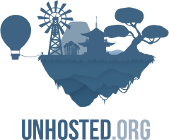
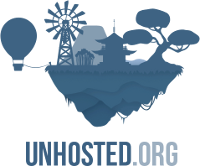
some late night changes on the header, next up is all of the content and getting the nav to actually work

diff --git a/index-new.html b/index-new.html
@@ -29,23 +29,23 @@
             <ul class="nav">
               <li class="active"><a id="nav-introduction" href="#"><i class="icon-home icon-white"></i> Introduction</a></li>
               <li><a id="nav-manifesto" href="#"><i class="icon-bookmark icon-white"></i> Manifesto</a></li>
-              <li><a id="nav-developer" href="developer.html"><i class="icon-cog icon-white"></i> Developer</a></li>
-              <li><a id="nav-community" href="community.html"><i class="icon-flag icon-white"></i> Community</a></li>
-              <li><a id="nav-thanks" href="thanks.html"><i class="icon-heart icon-white"></i> Thanks</a></li>
+              <li><a id="nav-developer" href="#"><i class="icon-cog icon-white"></i> Developer</a></li>
+              <li><a id="nav-community" href="#"><i class="icon-flag icon-white"></i> Community</a></li>
+              <li><a id="nav-thanks" href="#"><i class="icon-heart icon-white"></i> Thanks</a></li>
             </ul>
             <ul class="nav pull-right">
               <li class="dropdown">
                 <a href="#" class="dropdown-toggle" data-toggle="dropdown"><i class="icon-eye-open icon-white"></i> Follow<b class="caret"></b></a>
                 <ul class="dropdown-menu">
-                  <li><a target="_blank" href="http://twitter.com/unhosted"><img src="https://twitter.com/phoenix/favicon.ico" /> Twitter</a></li>
-                  <li><a target="_blank" href="http://identi.ca/unhosted"><img src="http://status.net/sites/default/themes/statustheme/favicon.ico" /> Identi.ca</a></li>
-                  <li><a target="_blank" href="http://joindiaspora.com/u/unhosted"><img src="https://joindiaspora.com/favicon.png" /> Diaspora</a></li>
+                  <li><a target="_blank" href="http://twitter.com/unhosted"><img src="img/icon-twitter.ico" /> Twitter</a></li>
+                  <li><a target="_blank" href="http://identi.ca/unhosted"><img src="img/icon-identica.ico" /> Identi.ca</a></li>
+                  <li><a target="_blank" href="http://joindiaspora.com/u/unhosted"><img src="img/icon-diaspora.png" /> Diaspora</a></li>
                 </ul>
               </li>
               <li class="dropdown">
                 <a href="#" class="dropdown-toggle" data-toggle="dropdown"><i class="icon-user icon-white"></i> Participate<b class="caret"></b></a>
                 <ul class="dropdown-menu">
-                  <li><a target="_blank" href="https://github.com/unhosted"><img src="https://github.com/favicon.ico" /> Code</a></li>
+                  <li><a target="_blank" href="https://github.com/unhosted"><img src="img/icon-github.ico" /> Code</a></li>
                   <li><a target="_blank" href="http://groups.google.com/group/unhosted"><i class="icon-envelope"></i> Mailing list</a></li>
                   <li><a target="_blank" href="http://webchat.freenode.net/?channels=unhosted"><i class="icon-comment"></i> Chat room</a></li>
                 </ul>

diff --git a/css/custom.css b/css/custom.css
@@ -1,10 +1,11 @@
 body { background:#fff url('../img/backhaze.png') center 120px repeat-x; }
 
-.brand { position:absolute; top:-8em; left:2em; }
+.brand { position:absolute; top:-7.2em; left:2em; }
 
 .navbar.navbar-fixed-top { position:relative; }
-.navbar .navbar-inner { height:16em; background:url('../img/headerback.png') repeat-x top center; }
+.navbar .navbar-inner { height:15em; background:url('../img/headerback.png') repeat-x top center; }
 .navbar .container { position:absolute; bottom:0; left:5em; }
+.navbar .nav { margin-left:20em; }
 .navbar .nav a { outline:0; }
 .navbar ul.nav>li>a:hover { background:rgba(0, 0, 0, 0.25); }
 .navbar .nav .icon-white { opacity:.5; margin-top:.15em; }
@@ -17,5 +18,4 @@ body { background:#fff url('../img/backhaze.png') center 120px repeat-x; }
 
 #description { position:absolute; top:-11em; left:20em; color:#a1aab0; width:60em; }
 #description strong, #description a { color:#eaeaea; font-weight:bold; text-decoration:none; }
-#description h2, #description h2 { color:#b9e768; font-size:22px; text-shadow:0px 2px 1px #09151e; background:url('../img/helpruler.png') bottom repeat-x; padding-bottom:.5em; }
-
+#description h2 { color:#b9e768; font-size:22px; text-shadow:0px 2px 1px #09151e; margin-bottom:.3em; }
